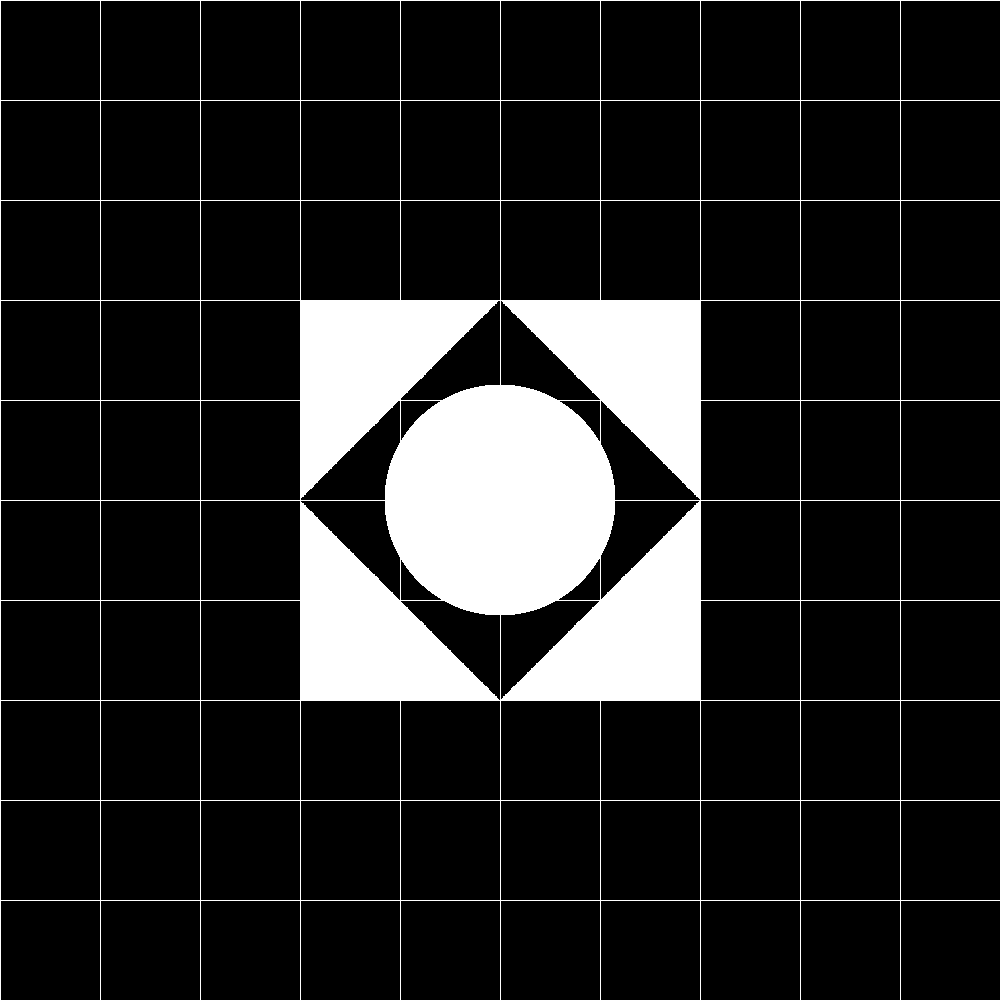
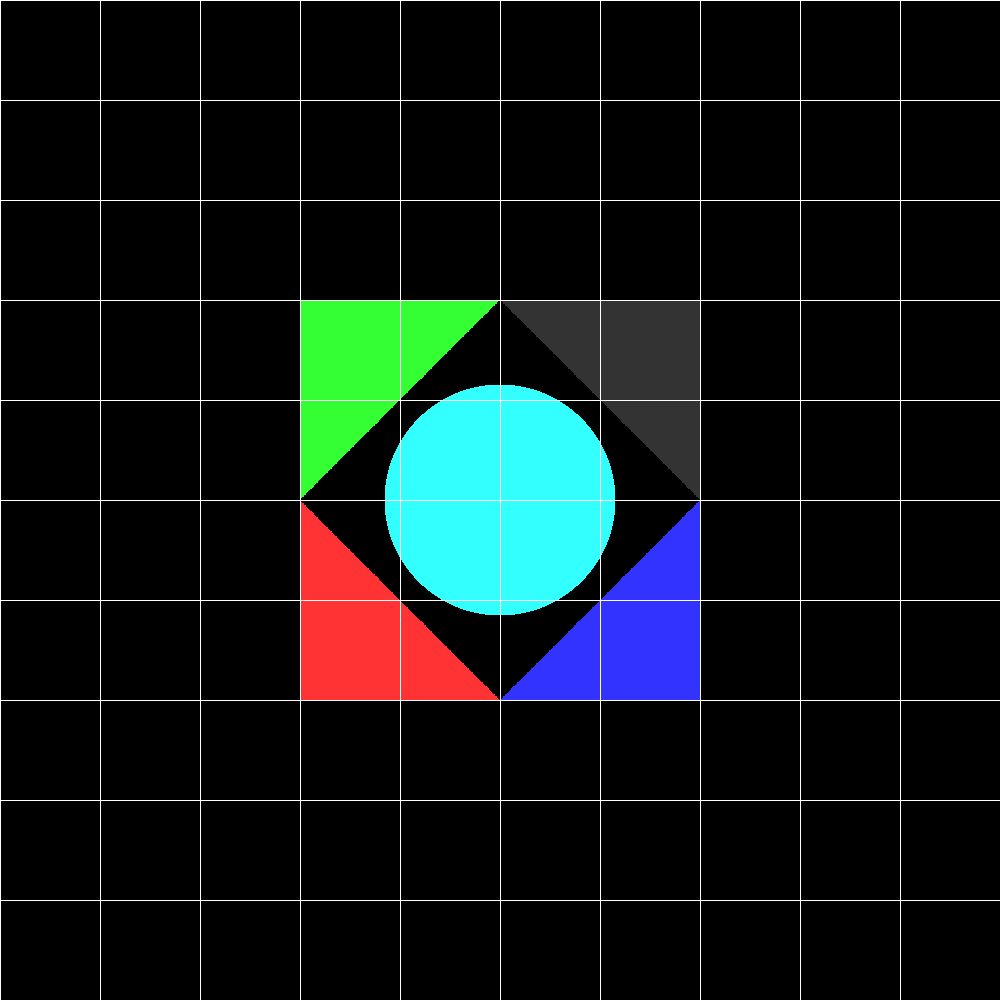
multicolor picture test completed

Changed region(s): [[0.279, 0.279, 0.713, 0.713]]

diff --git a/myTests/primitives/RayTest.java b/myTests/primitives/RayTest.java
@@ -1,9 +1,12 @@
 package primitives;
 
+import geometries.Intersectable;
+import geometries.Plane;
 import org.junit.jupiter.api.Test;
 
 import java.util.LinkedList;
 import java.util.List;
+import geometries.Intersectable.GeoPoint;
 
 import static org.junit.jupiter.api.Assertions.*;
 
@@ -70,5 +73,69 @@ class RayTest {
                 new Ray(new Point3D(0, 0, 0),
                         new Vector(0, 0, 1)).
                         findClosestPoint(points),"(0,0,0) is the closest point");
+    }
+
+    /**
+     * test to verify the closest geo point
+     * {@link primitives.Ray#findClosestPoint(List)}
+     */
+    @Test
+    void findClosestGeoPoint() {
+        //============================ EP tests =====================
+        //TC01
+        List<GeoPoint> points = new LinkedList<GeoPoint>();
+        Plane plane = new Plane(new Point3D(0,0,2), new Point3D(0,0,1), new Point3D(0,1,0));
+        points.add(new GeoPoint(plane, new Point3D(0, 0, 2)));
+        points.add(new GeoPoint(plane, new Point3D(0, 0, 3)));
+        points.add(new GeoPoint(plane, new Point3D(0, 0, 4)));
+        points.add(new GeoPoint(plane, new Point3D(0, 0, 1)));
+        points.add(new GeoPoint(plane, new Point3D(0, 0, 5)));
+        points.add(new GeoPoint(plane, new Point3D(0, 0, 6)));
+        points.add(new GeoPoint(plane, new Point3D(0, 0, 7)));
+        points.add(new GeoPoint(plane, new Point3D(0, 0, 8)));
+
+        assertEquals(new Point3D(0, 0, 1),
+                new Ray(new Point3D(0, 0, 0),
+                        new Vector(0, 0, 1)).
+                        findClosestGeoPoint(points).point3D,"(0,0,1) is the closest point");
+
+        //============================ BV tests =====================
+        //TC02
+        points= new LinkedList<>();
+        assertNull(new Ray(new Point3D(0, 0, 0),
+                new Vector(0, 0, 1)).
+                findClosestGeoPoint(points),"points is an empty list");
+
+        //TC03
+        points = new LinkedList<>();
+        points.add(new GeoPoint(plane, new Point3D(0, 0, 1)));
+        points.add(new GeoPoint(plane, new Point3D(0, 0, 2)));
+        points.add(new GeoPoint(plane, new Point3D(0, 0, 3)));
+        points.add(new GeoPoint(plane, new Point3D(0, 0, 4)));
+        points.add(new GeoPoint(plane, new Point3D(0, 0, 5)));
+        points.add(new GeoPoint(plane, new Point3D(0, 0, 6)));
+        points.add(new GeoPoint(plane, new Point3D(0, 0, 7)));
+        points.add(new GeoPoint(plane, new Point3D(0, 0, 8)));
+
+        assertEquals(new Point3D(0, 0, 1),
+                new Ray(new Point3D(0, 0, 0),
+                        new Vector(0, 0, 1)).
+                        findClosestGeoPoint(points).point3D,"(0,0,0) is the closest point");
+
+        //TC03
+        points = new LinkedList<>();
+        points.add(new GeoPoint(plane, new Point3D(0, 0, 2)));
+        points.add(new GeoPoint(plane, new Point3D(0, 0, 3)));
+        points.add(new GeoPoint(plane, new Point3D(0, 0, 4)));
+        points.add(new GeoPoint(plane, new Point3D(0, 0, 5)));
+        points.add(new GeoPoint(plane, new Point3D(0, 0, 6)));
+        points.add(new GeoPoint(plane, new Point3D(0, 0, 7)));
+        points.add(new GeoPoint(plane, new Point3D(0, 0, 8)));
+        points.add(new GeoPoint(plane, new Point3D(0, 0, 1)));
+
+        assertEquals(new Point3D(0, 0, 1),
+                new Ray(new Point3D(0, 0, 0),
+                        new Vector(0, 0, 1)).
+                        findClosestGeoPoint(points).point3D,"(0,0,0) is the closest point");
     }
 }

diff --git a/src/renderer/RayTracerBasic.java b/src/renderer/RayTracerBasic.java
@@ -5,6 +5,8 @@ import primitives.Point3D;
 import primitives.Ray;
 import scene.Scene;
 
+import geometries.Intersectable.GeoPoint;
+
 import java.util.List;
 
 /**
@@ -23,21 +25,23 @@ public class RayTracerBasic extends RayTracerBase{
      */
     @Override
     public Color traceRay(Ray ray) {
-       List<Point3D> points = _scene.geometries.findIntersections(ray);
+       List<GeoPoint> points = _scene.geometries.findGeoIntersections(ray);
        if (points == null){
            return _scene.background;
        }
-       Point3D p = ray.findClosestPoint(points);
+       GeoPoint p = ray.findClosestGeoPoint(points);
         return calcColor(p);
     }
 
     /**
      * method that return the intensity of the color
-     * @param point
+     * @param geoPoint
      * @return the intensity of the color
      */
-    private Color calcColor(Point3D point) {
-        return _scene.ambientLight.getIntensity();
+    private Color calcColor(GeoPoint geoPoint) {
+        Color emissionColor = geoPoint.geometry.getEmission();
+        //emissionColor.add(_scene.ambientLight.getIntensity());
+        return _scene.ambientLight.getIntensity().add(emissionColor);
 
     }
 

diff --git a/src/renderer/Render.java b/src/renderer/Render.java
@@ -62,7 +62,7 @@ public class Render {
 
         for (int i = 0; i < _imageWriter.getNx(); i++){
             for (int j = 0; j < _imageWriter.getNy(); j++){
-                _imageWriter.writePixel(i,j,_rayTracer.traceRay(_camera.constructRay(_imageWriter.getNx(), _imageWriter.getNy(),j,i)));
+                _imageWriter.writePixel(j,i,_rayTracer.traceRay(_camera.constructRay(_imageWriter.getNx(), _imageWriter.getNy(),j,i)));
             }
         }
     }

diff --git a/src/primitives/Ray.java b/src/primitives/Ray.java
@@ -75,6 +75,7 @@ public class Ray {
      * @return the geoPoint that's closest to the rays p0
      */
     public GeoPoint findClosestGeoPoint(List<GeoPoint> points){
+        if (points == null || points.isEmpty()) return null;
         GeoPoint result = points.get(0);
         double min = _p0.distance(points.get(0).point3D);
         for (GeoPoint p : points) {

diff --git a/src/elements/AmbientLight.java b/src/elements/AmbientLight.java
@@ -18,7 +18,7 @@ public class AmbientLight {
      */
     public AmbientLight(Color intensity, double ka) {
         this._intensity = intensity;
-        _intensity.scale(ka);
+        _intensity = _intensity.scale(ka);
     }
 
     /**
